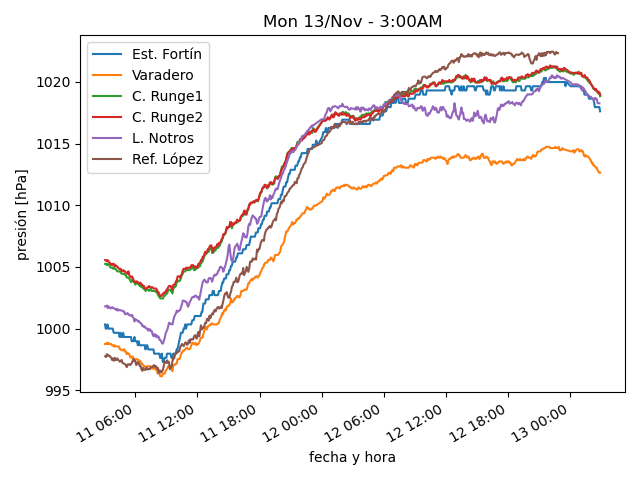
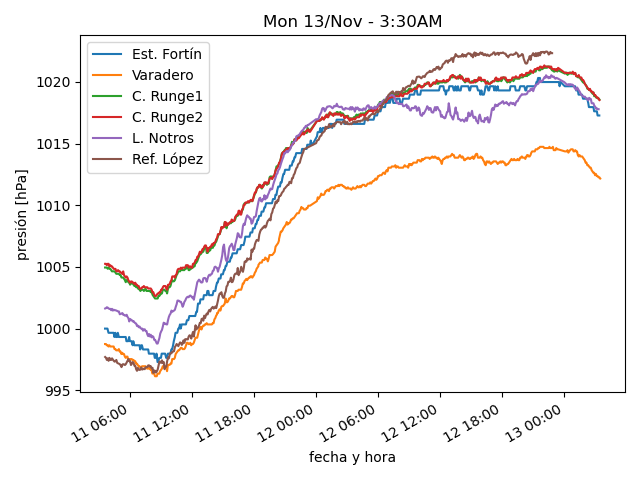
actualiza datos

diff --git a/estaciones/estacion2.html b/estaciones/estacion2.html
@@ -18,32 +18,32 @@
     </tr>
     <tr>
      <td class="stats_data">
-      2:54AM
+      3:29AM
      </td>
     </tr>
     <tr>
      <td class="stats_data">
-      4.1⁰C
+      5.0⁰C
      </td>
     </tr>
     <tr>
      <td class="stats_data">
-      -0.4⁰C
+      1.3⁰C
      </td>
     </tr>
     <tr>
      <td class="stats_data">
-      72.6%
+      76.8%
      </td>
     </tr>
     <tr>
      <td class="stats_data">
-      1022.11hPa
+      1021.64hPa
      </td>
     </tr>
     <tr>
      <td class="stats_data">
-      8.2/12.5 km/hr WNW
+      28.6/36.1 km/hr WNW
      </td>
     </tr>
     <tr>

diff --git a/estaciones/estacion3.html b/estaciones/estacion3.html
@@ -18,32 +18,32 @@
     </tr>
     <tr>
      <td class="stats_data">
-      2:54AM
+      3:24AM
      </td>
     </tr>
     <tr>
      <td class="stats_data">
-      3.0⁰C
+      2.8⁰C
      </td>
     </tr>
     <tr>
      <td class="stats_data">
-      -1.2⁰C
+      -1.1⁰C
      </td>
     </tr>
     <tr>
      <td class="stats_data">
-      74.0%
+      75.4%
      </td>
     </tr>
     <tr>
      <td class="stats_data">
-      1007.11hPa
+      1006.84hPa
      </td>
     </tr>
     <tr>
      <td class="stats_data">
-      7.5/11.1 km/hr WNW
+      5.2/8.3 km/hr W
      </td>
     </tr>
     <tr>

diff --git a/estaciones/estacion1.html b/estaciones/estacion1.html
@@ -18,7 +18,7 @@
     </tr>
     <tr>
      <td class="stats_data">
-      2:53AM
+      3:24AM
      </td>
     </tr>
     <tr>
@@ -28,22 +28,22 @@
     </tr>
     <tr>
      <td class="stats_data">
-      -2.6⁰C
+      -2.3⁰C
      </td>
     </tr>
     <tr>
      <td class="stats_data">
-      65.5%
+      66.3%
      </td>
     </tr>
     <tr>
      <td class="stats_data">
-      1017.61hPa
+      1017.27hPa
      </td>
     </tr>
     <tr>
      <td class="stats_data">
-      7.2/10.5 km/hr W
+      13.3/26.3 km/hr WSW
      </td>
     </tr>
     <tr>

diff --git a/estaciones/estacion4.html b/estaciones/estacion4.html
@@ -18,12 +18,12 @@
     </tr>
     <tr>
      <td class="stats_data">
-      2:54AM
+      3:24AM
      </td>
     </tr>
     <tr>
      <td class="stats_data">
-      3.0⁰C
+      2.8⁰C
      </td>
     </tr>
     <tr>
@@ -33,17 +33,17 @@
     </tr>
     <tr>
      <td class="stats_data">
-      70.0%
+      71.0%
      </td>
     </tr>
     <tr>
      <td class="stats_data">
-      1015.92hPa
+      1015.51hPa
      </td>
     </tr>
     <tr>
      <td class="stats_data">
-      2.6/3.9 km/hr SW
+      1.5/2.2 km/hr SSW
      </td>
     </tr>
     <tr>

diff --git a/estaciones/estacion5.html b/estaciones/estacion5.html
@@ -18,27 +18,27 @@
     </tr>
     <tr>
      <td class="stats_data">
-      2:50AM
+      3:20AM
      </td>
     </tr>
     <tr>
      <td class="stats_data">
-      2.1⁰C
+      2.4⁰C
      </td>
     </tr>
     <tr>
      <td class="stats_data">
-      -1.2⁰C
+      -1.3⁰C
      </td>
     </tr>
     <tr>
      <td class="stats_data">
-      79.0%
+      77.0%
      </td>
     </tr>
     <tr>
      <td class="stats_data">
-      1020.83hPa
+      1020.35hPa
      </td>
     </tr>
     <tr>
